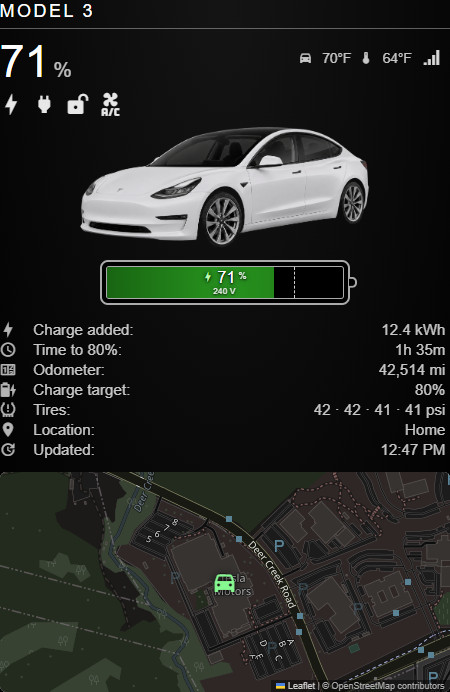
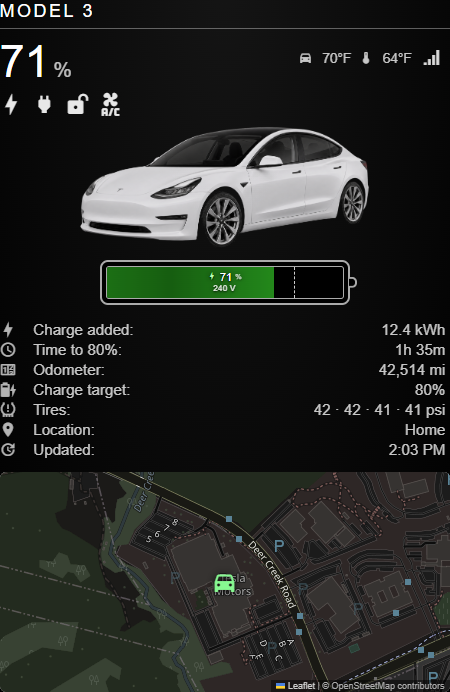
Updated to shrink font sizes on battery meter if voltage is available as a second line

Changed region(s): [[0.3422, 0.3642, 0.56, 0.4552], [0.84, 0.6373, 0.9333, 0.6676]]

diff --git a/preview/index.html b/preview/index.html
@@ -5,7 +5,7 @@
   <title>MMM-TeslamateWithLocation preview</title>
   <link rel="stylesheet" href="https://cdn.jsdelivr.net/npm/@mdi/font@7.4.47/css/materialdesignicons.min.css" />
   <link rel="stylesheet" href="https://unpkg.com/leaflet@1.9.4/dist/leaflet.css" />
-  <link rel="stylesheet" href="../MMM-TeslamateWithLocation.css?v=4" />
+  <link rel="stylesheet" href="../MMM-TeslamateWithLocation.css?v=5" />
   <style>
     html, body {
       margin: 0;
@@ -155,7 +155,7 @@
               <div class="tml-battery-well">
                 <div class="tml-battery-fill" style="width:${v.batteryUsable}%"></div>
                 <div class="tml-battery-target" style="left:${v.chargeTarget}%"></div>
-                <div class="tml-battery-overlay">
+                <div class="tml-battery-overlay${v.chargerVoltage ? " has-voltage" : ""}">
                   <div class="tml-battery-soc">${v.charging ? '<span class="mdi mdi-lightning-bolt tml-battery-bolt"></span>' : ""}<span class="tml-battery-soc-number">${v.batteryUsable}</span><span class="tml-battery-soc-unit">%</span></div>
                   ${v.chargerVoltage ? `<div class="tml-battery-voltage">${v.chargerVoltage} V</div>` : ""}
                 </div>

diff --git a/MMM-TeslamateWithLocation.js b/MMM-TeslamateWithLocation.js
@@ -403,6 +403,10 @@ Module.register("MMM-TeslamateWithLocation", {
 
     const overlay = document.createElement("div");
     overlay.className = "tml-battery-overlay";
+    const showVoltage = this.hasPlugVoltage(v);
+    if (showVoltage) {
+      overlay.classList.add("has-voltage");
+    }
     const socLine = document.createElement("div");
     socLine.className = "tml-battery-soc";
     if (v.charging) {
@@ -423,7 +427,7 @@ Module.register("MMM-TeslamateWithLocation", {
     socLine.appendChild(num);
     socLine.appendChild(unit);
     overlay.appendChild(socLine);
-    if (this.hasPlugVoltage(v)) {
+    if (showVoltage) {
       const volts = document.createElement("div");
       volts.className = "tml-battery-voltage";
       volts.textContent = this.formatPlugVoltage(v);

diff --git a/MMM-TeslamateWithLocation.css b/MMM-TeslamateWithLocation.css
@@ -250,6 +250,23 @@
   opacity: 0.95;
 }
 
+.tml-battery-overlay.has-voltage {
+  gap: 1px;
+}
+
+.tml-battery-overlay.has-voltage .tml-battery-soc-number {
+  font-size: 0.71rem;
+}
+
+.tml-battery-overlay.has-voltage .tml-battery-soc-unit {
+  font-size: 0.41rem;
+}
+
+.tml-battery-overlay.has-voltage .tml-battery-bolt,
+.tml-battery-overlay.has-voltage .tml-battery-snowflake {
+  font-size: 0.49rem;
+}
+
 .tml-battery-nub {
   position: absolute;
   right: -9px;
